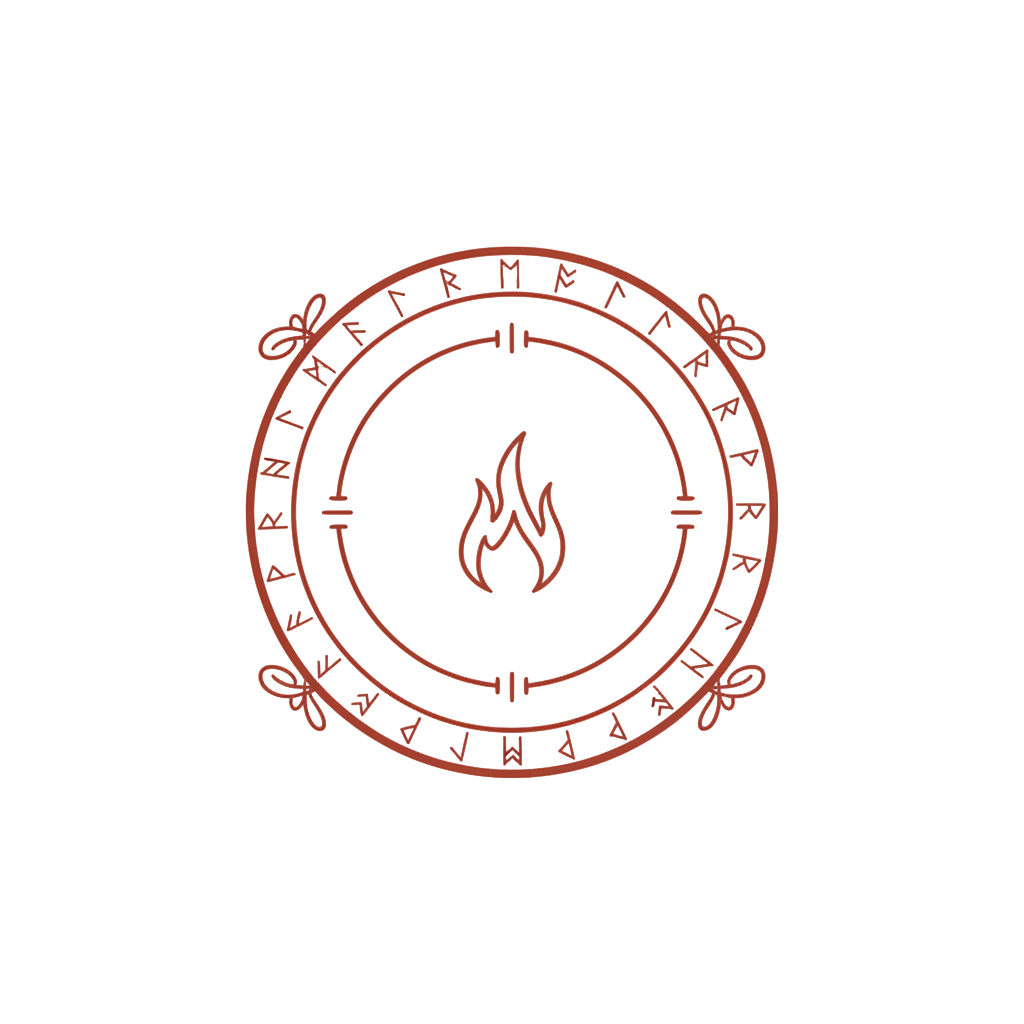
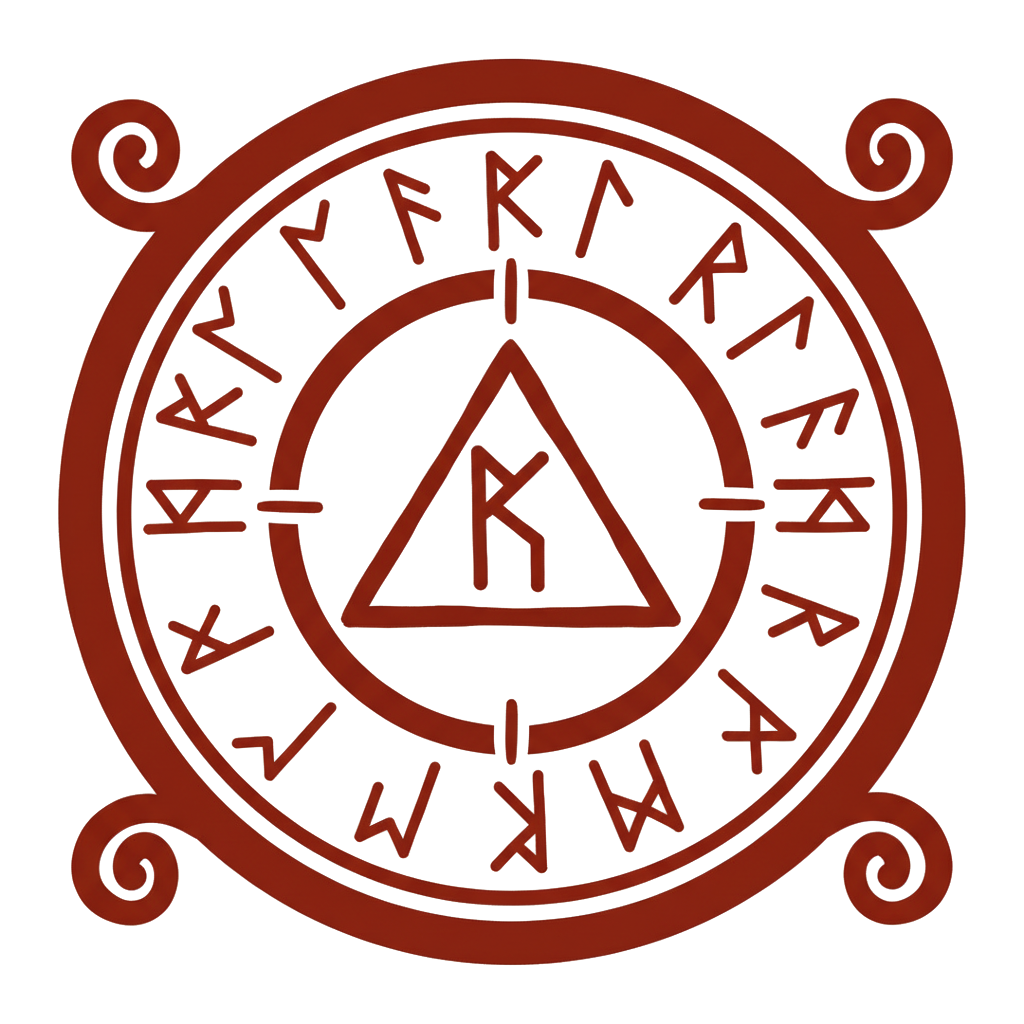
sigil: bolder PNG, stronger flame glow amplitude
- Regenerated with thick strokes, solid triangle-rune center
  (flame center replaced, per feedback it looked "lame")
- Dedicated sigilFlamePulse keyframe separate from button:
  4-layer drop-shadow up to 140px on peak
- Hover pushes to 160px outer halo

diff --git a/src/styles/global.css b/src/styles/global.css
@@ -296,12 +296,13 @@
     background-image: linear-gradient(
       120deg,
       #7a2410 0%,
-      #9a3218 18%,
-      #b03a1a 32%,
-      #cd4824 44%,
-      #e85a2b 52%,
-      #cd4824 66%,
-      #b03a1a 82%,
+      #9a3218 14%,
+      #b03a1a 28%,
+      #cd4824 40%,
+      #f26a38 50%,
+      #cd4824 60%,
+      #b03a1a 72%,
+      #9a3218 86%,
       #7a2410 100%
     );
     background-size: 300% 300%;
@@ -314,10 +315,11 @@
     -webkit-mask-position: center;
     mask-position: center;
     filter:
-      drop-shadow(0 0 4px  rgba(var(--ember-rgb), 0.70))
-      drop-shadow(0 0 14px rgba(var(--ember-rgb), 0.45));
+      drop-shadow(0 0 6px  rgba(var(--ember-rgb), 0.85))
+      drop-shadow(0 0 20px rgba(var(--ember-rgb), 0.65))
+      drop-shadow(0 0 48px rgba(var(--ember-rgb), 0.45));
     animation:
-      emberFlowPulse 5s ease-in-out infinite,
+      sigilFlamePulse 5s ease-in-out infinite,
       arcaneFlow 16s ease-in-out infinite;
     transition: filter 400ms ease;
   }
@@ -325,10 +327,25 @@
   a:hover .sigil-flame,
   .group:hover .sigil-flame {
     filter:
-      drop-shadow(0 0 6px  rgba(var(--ember-rgb), 1.0))
-      drop-shadow(0 0 22px rgba(var(--ember-rgb), 0.85))
-      drop-shadow(0 0 52px rgba(var(--ember-rgb), 0.60))
-      drop-shadow(0 0 110px rgba(var(--ember-rgb), 0.35));
+      drop-shadow(0 0 10px rgba(var(--ember-rgb), 1.0))
+      drop-shadow(0 0 32px rgba(var(--ember-rgb), 0.95))
+      drop-shadow(0 0 72px rgba(var(--ember-rgb), 0.75))
+      drop-shadow(0 0 160px rgba(var(--ember-rgb), 0.50));
+  }
+  @keyframes sigilFlamePulse {
+    0%, 100% {
+      filter:
+        drop-shadow(0 0 4px  rgba(var(--ember-rgb), 0.70))
+        drop-shadow(0 0 16px rgba(var(--ember-rgb), 0.50))
+        drop-shadow(0 0 40px rgba(var(--ember-rgb), 0.30));
+    }
+    50% {
+      filter:
+        drop-shadow(0 0 10px rgba(var(--ember-rgb), 1.0))
+        drop-shadow(0 0 30px rgba(var(--ember-rgb), 0.85))
+        drop-shadow(0 0 68px rgba(var(--ember-rgb), 0.55))
+        drop-shadow(0 0 140px rgba(var(--ember-rgb), 0.30));
+    }
   }
 
   @keyframes emberFlowPulse {
